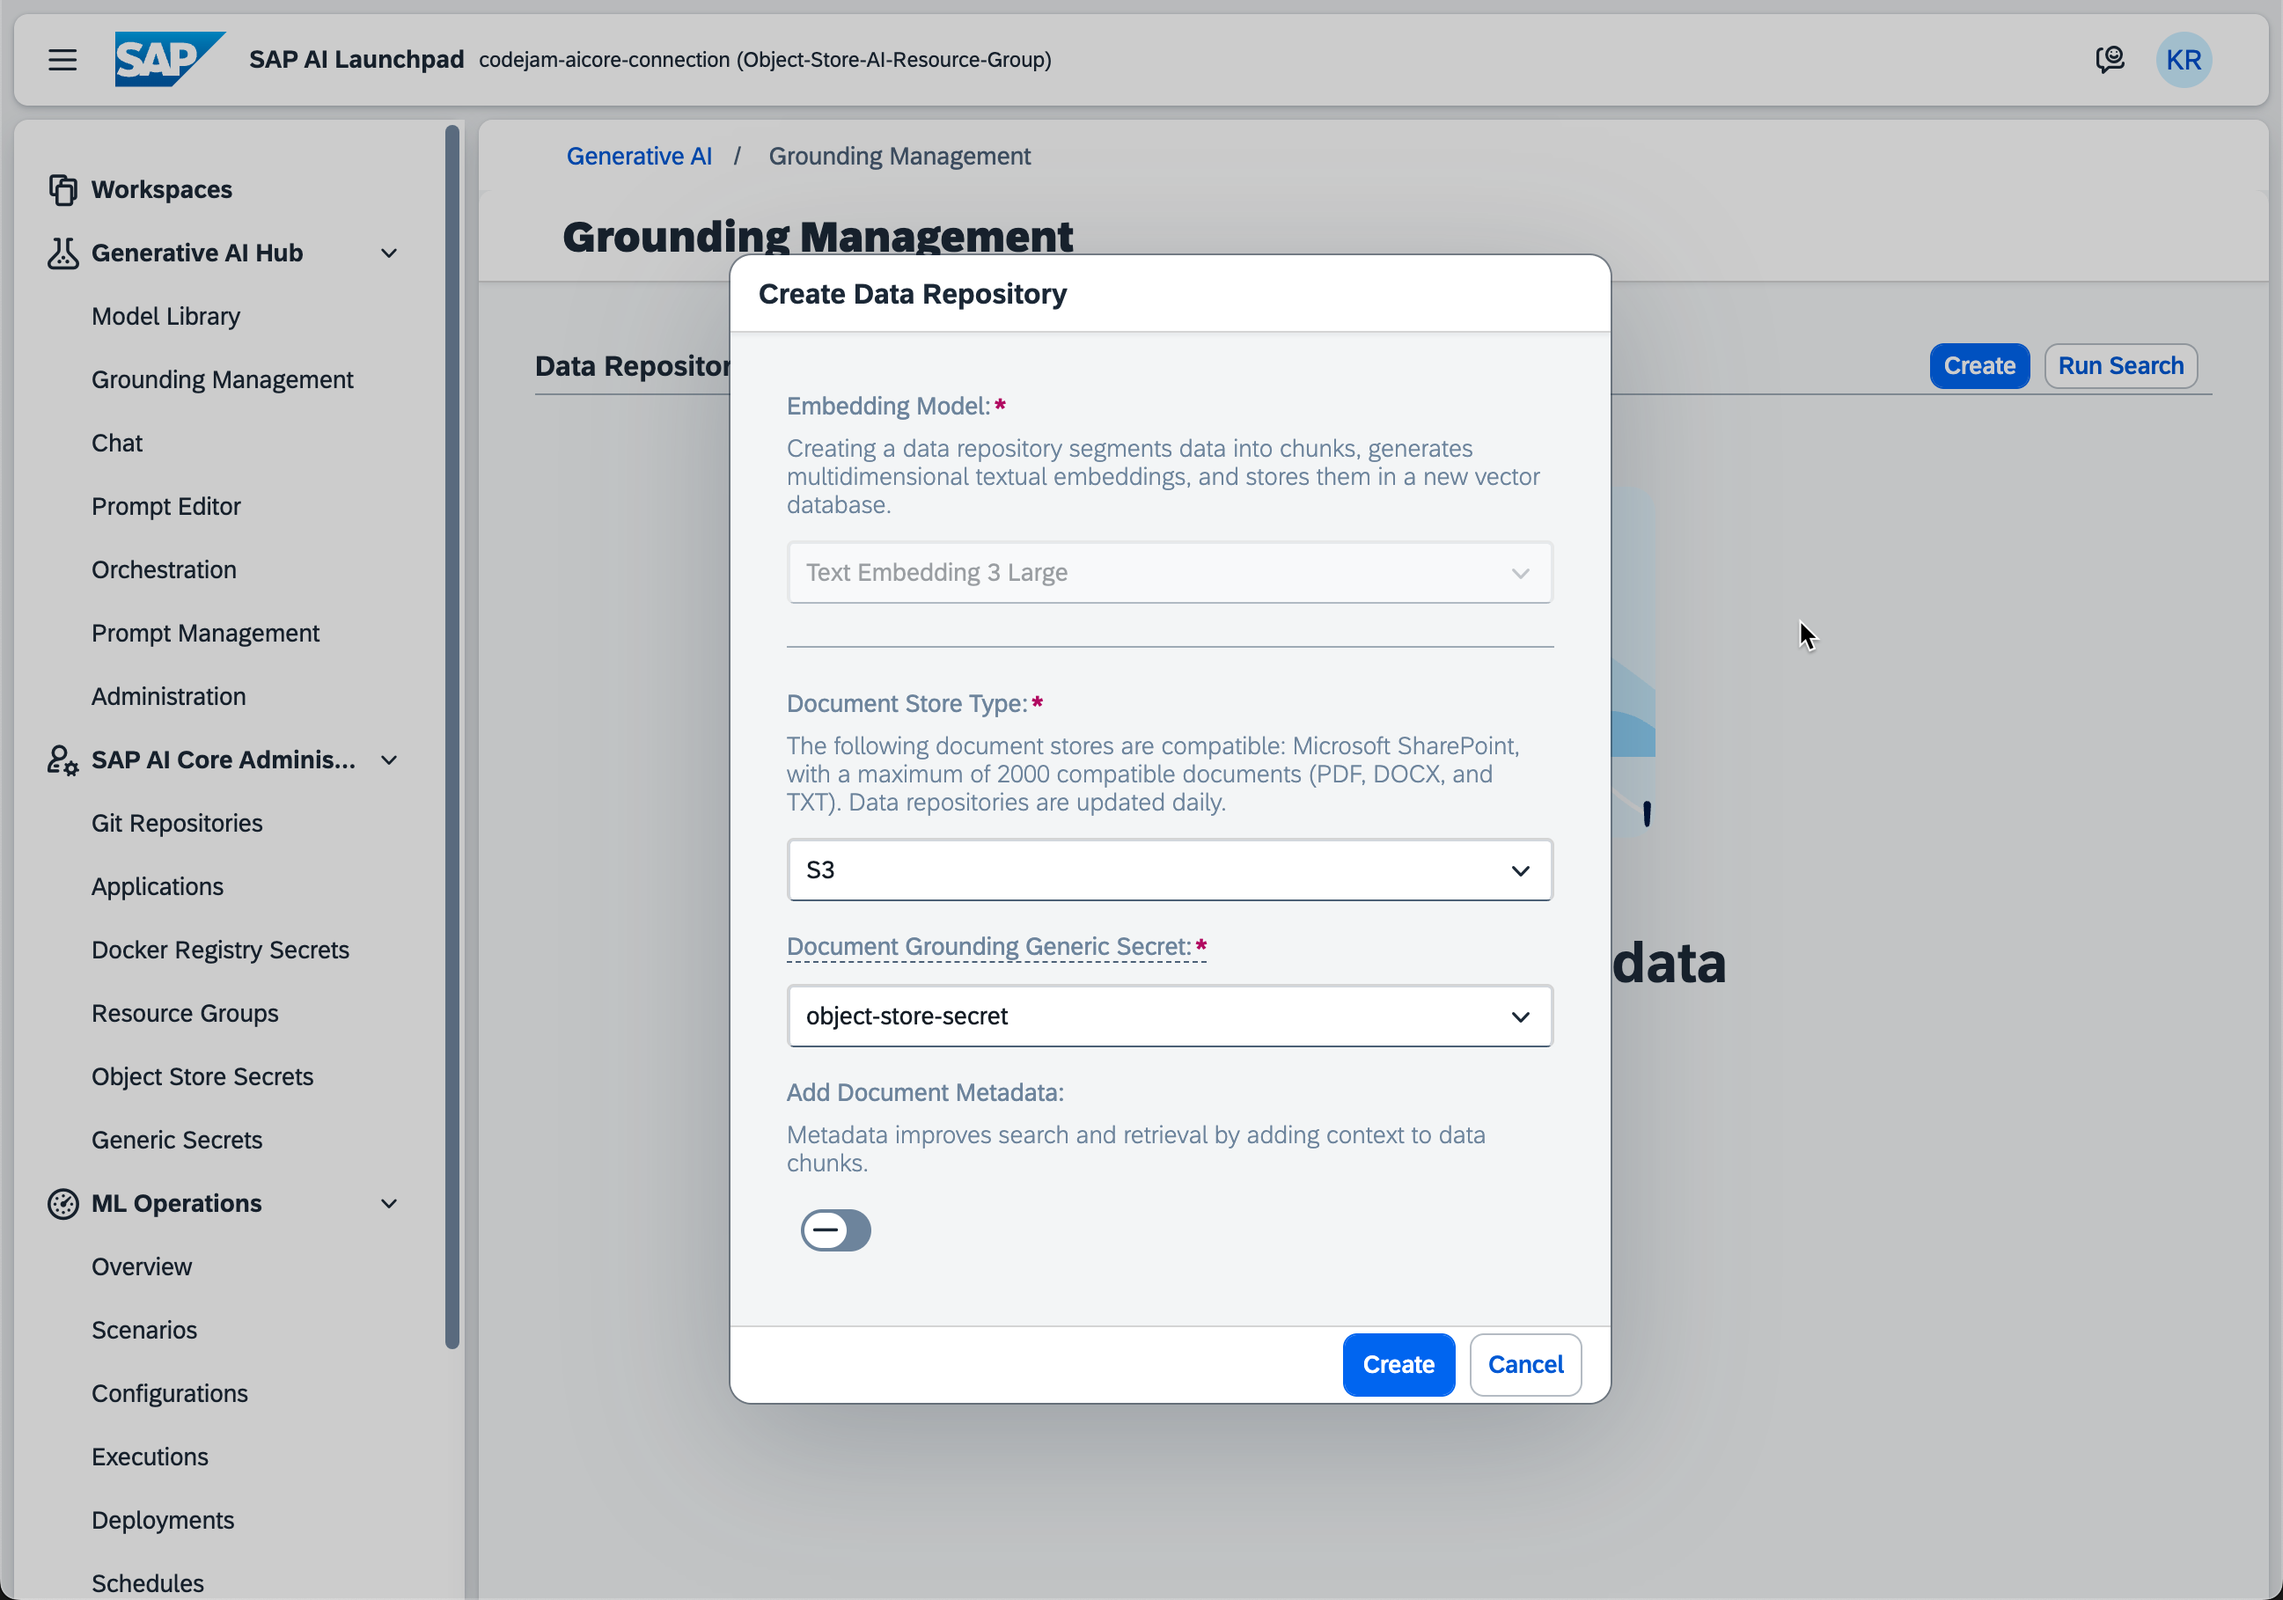
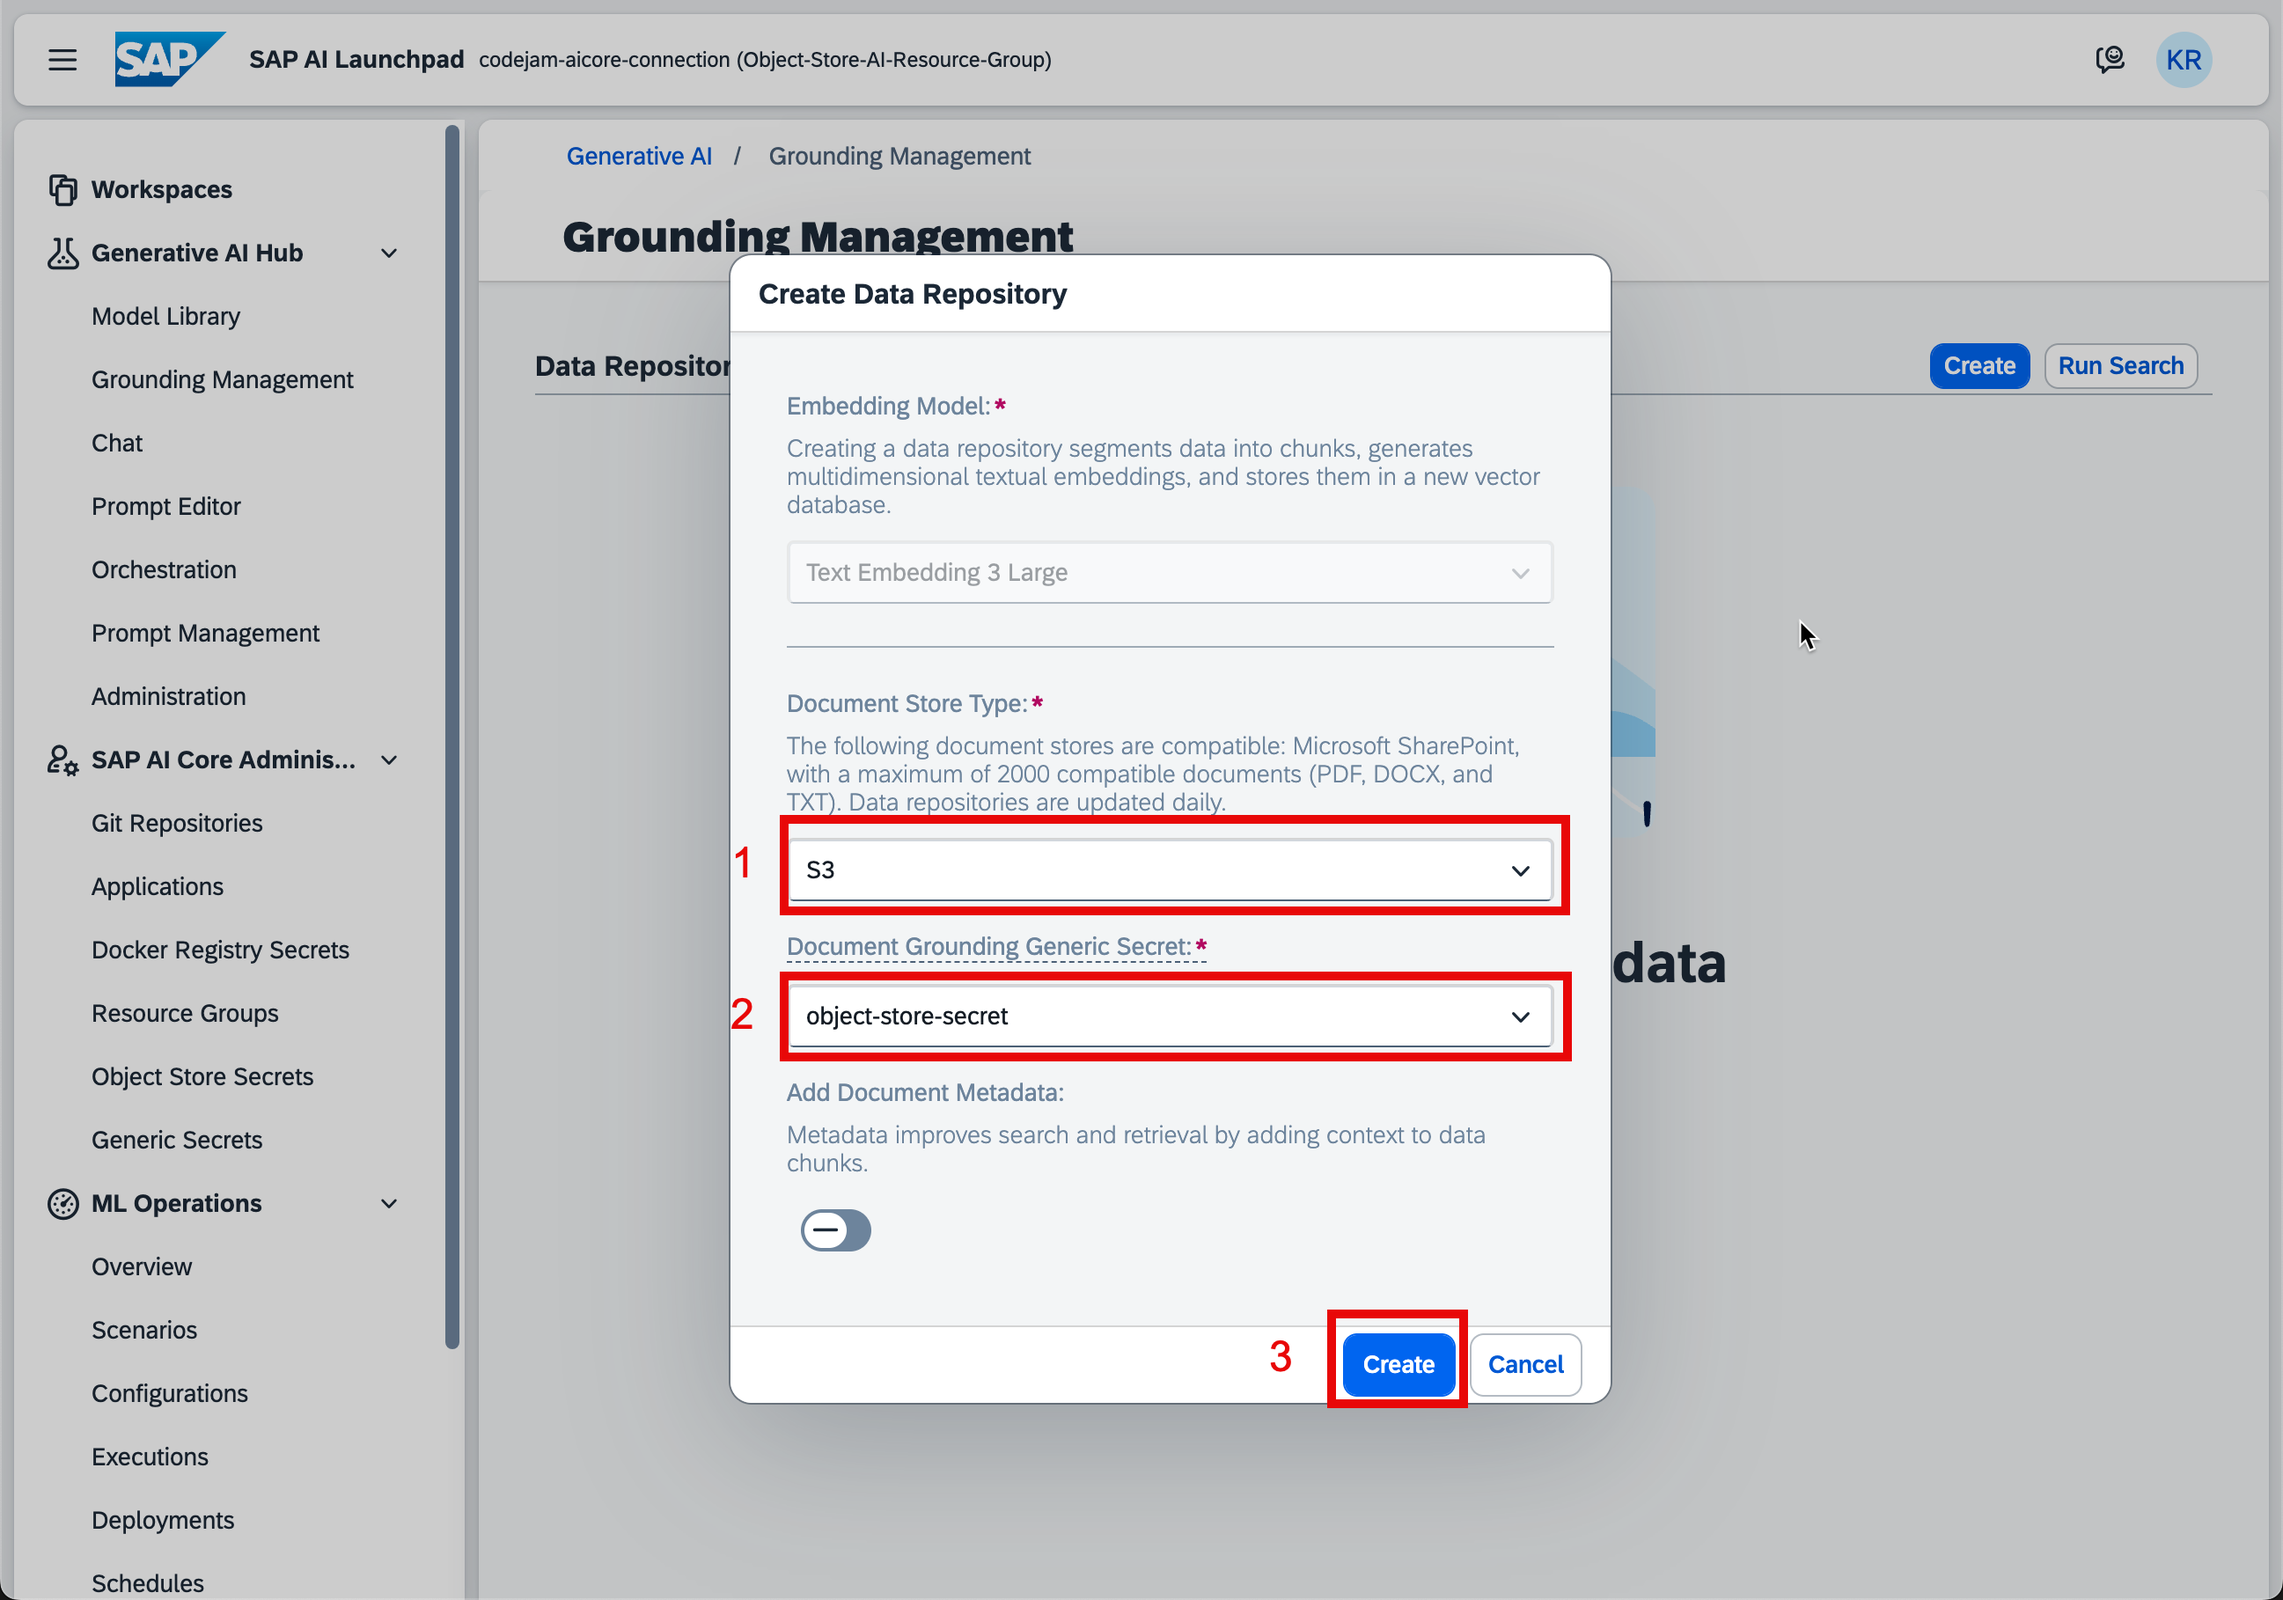
Finished exercise 01 Grounding Pipeline

diff --git a/exercises/01-create-grounding-pipeline/readme.md b/exercises/01-create-grounding-pipeline/readme.md
@@ -1,1 +1,63 @@
-# Exercise 01 - Create a document grounding pipeline
+# Exercise 01 - Understand the Document Grounding Pipeline
+
+_Estimated Time: **05 min**_
+
+In this exercise, you will learn what a document grounding pipeline is. This pipeline will pull a document from an S3 bucket on AWS, chunk it, vectorize it, and store it in a central SAP HANA Cloud vector engine.
+
+## Table of Contents
+
+- [Exercise 01 - Understand the Document Grounding Pipeline](#exercise-01---understand-the-document-grounding-pipeline)
+- [The Document Grounding Pipeline](#the-document-grounding-pipeline)
+- [Summary](#summary)
+  - [Questions for Discussion](#questions-for-discussion)
+- [Further Reading](#further-reading)
+
+## The Document Grounding Pipeline
+
+For this workshop, the S3 bucket is provided through the SAP Business Technology Platform Document Store service. The document was already uploaded to the document store on BTP. To pull the document from the document store, a secret is needed to properly authenticate against the document store. The secret was also pre-configured to keep the exercise concise and focused on the task at hand.
+
+The Document Grounding service, as part of the grounding pipeline on SAP AI Core, is a great tool to simplify the grounding process of a contextual document for an orchestrated Retrieval Augmented Generation flow.
+
+It automates the chunking and vectorization through a vector embedding process and stores these vector embeddings. Another benefit is that you don't need your own SAP HANA Cloud instance to utilize the vector engine. It uses a central SAP-hosted instance, which assigns a tenant to you where your vector embeddings are stored.  
+Through that approach, you can save on provisioning your own SAP HANA Cloud instance if you only want to use the vector engine feature.
+
+The chunking is currently not configurable and uses a default chunking setting, where the chunk size and parameters are set to divide the contextual document by section.
+
+> NOTE: The following steps are already done for this workshop. Please do not follow the steps; they are just for your understanding!
+
+Using the **Grounding Management** on SAP AI Launchpad, you can simply create the pipeline.
+
+![grounding-pipeline-creation](./assets/create-grounding-pipeline-01.png)
+
+As you can see, you simply define the **Document Store Type**—in our case, the **S3** bucket—and select the generic secret for authorization and authentication.
+
+After the creation of the pipeline, the service will pull the documents, vectorize them, and store them in the vector engine.
+
+![grounding-pipeline-result](./assets/create-grounding-pipeline-03.png)
+
+## Summary
+
+At this point, you have understood what the document grounding pipeline is and how it consumes an S3 bucket on AWS.
+
+### Questions for Discussion
+
+1. Can you currently configure the chunking parameters?
+<details><summary>Answer</summary>
+   No, at this point it is not possible to configure the chunking parameters for the document chunking. It applies a default chunking to prepare the contextual document for vectorization.
+</details>
+
+2. What information can you see when navigating into the detail screen of the data repository?
+<details><summary>Answer</summary>
+    You can inspect the chunks and the metadata. You can also search for specific chunks if you want to.
+</details>
+
+## Further Reading
+
+- [Generative AI Hub on SAP AI Core - Help Portal (Documentation)](https://help.sap.com/docs/sap-ai-core/sap-ai-core-service-guide/generative-ai-hub-in-sap-ai-core-7db524ee75e74bf8b50c167951fe34a5)
+- [Out-of-the-Box Document Grounding in SAP AI Core: RAG with SAP Help Portal](https://community.sap.com/t5/technology-blog-posts-by-sap/out-of-the-box-document-grounding-in-sap-ai-core-rag-with-sap-help-portal/ba-p/14076473)
+- [Document Grounding in SAP AI Core: RAG with AWS S3 via Object Store Service on SAP BTP](https://community.sap.com/t5/technology-blog-posts-by-sap/document-grounding-in-sap-ai-core-rag-with-aws-s3-via-object-store-service/ba-p/14078294)
+- [SAP Business Accelerator Hub - Grounding API](https://api.sap.com/api/DOCUMENT_GROUNDING_API/overview)
+
+---
+
+[Next exercise](../02-create-prompt-template/readme.md)
